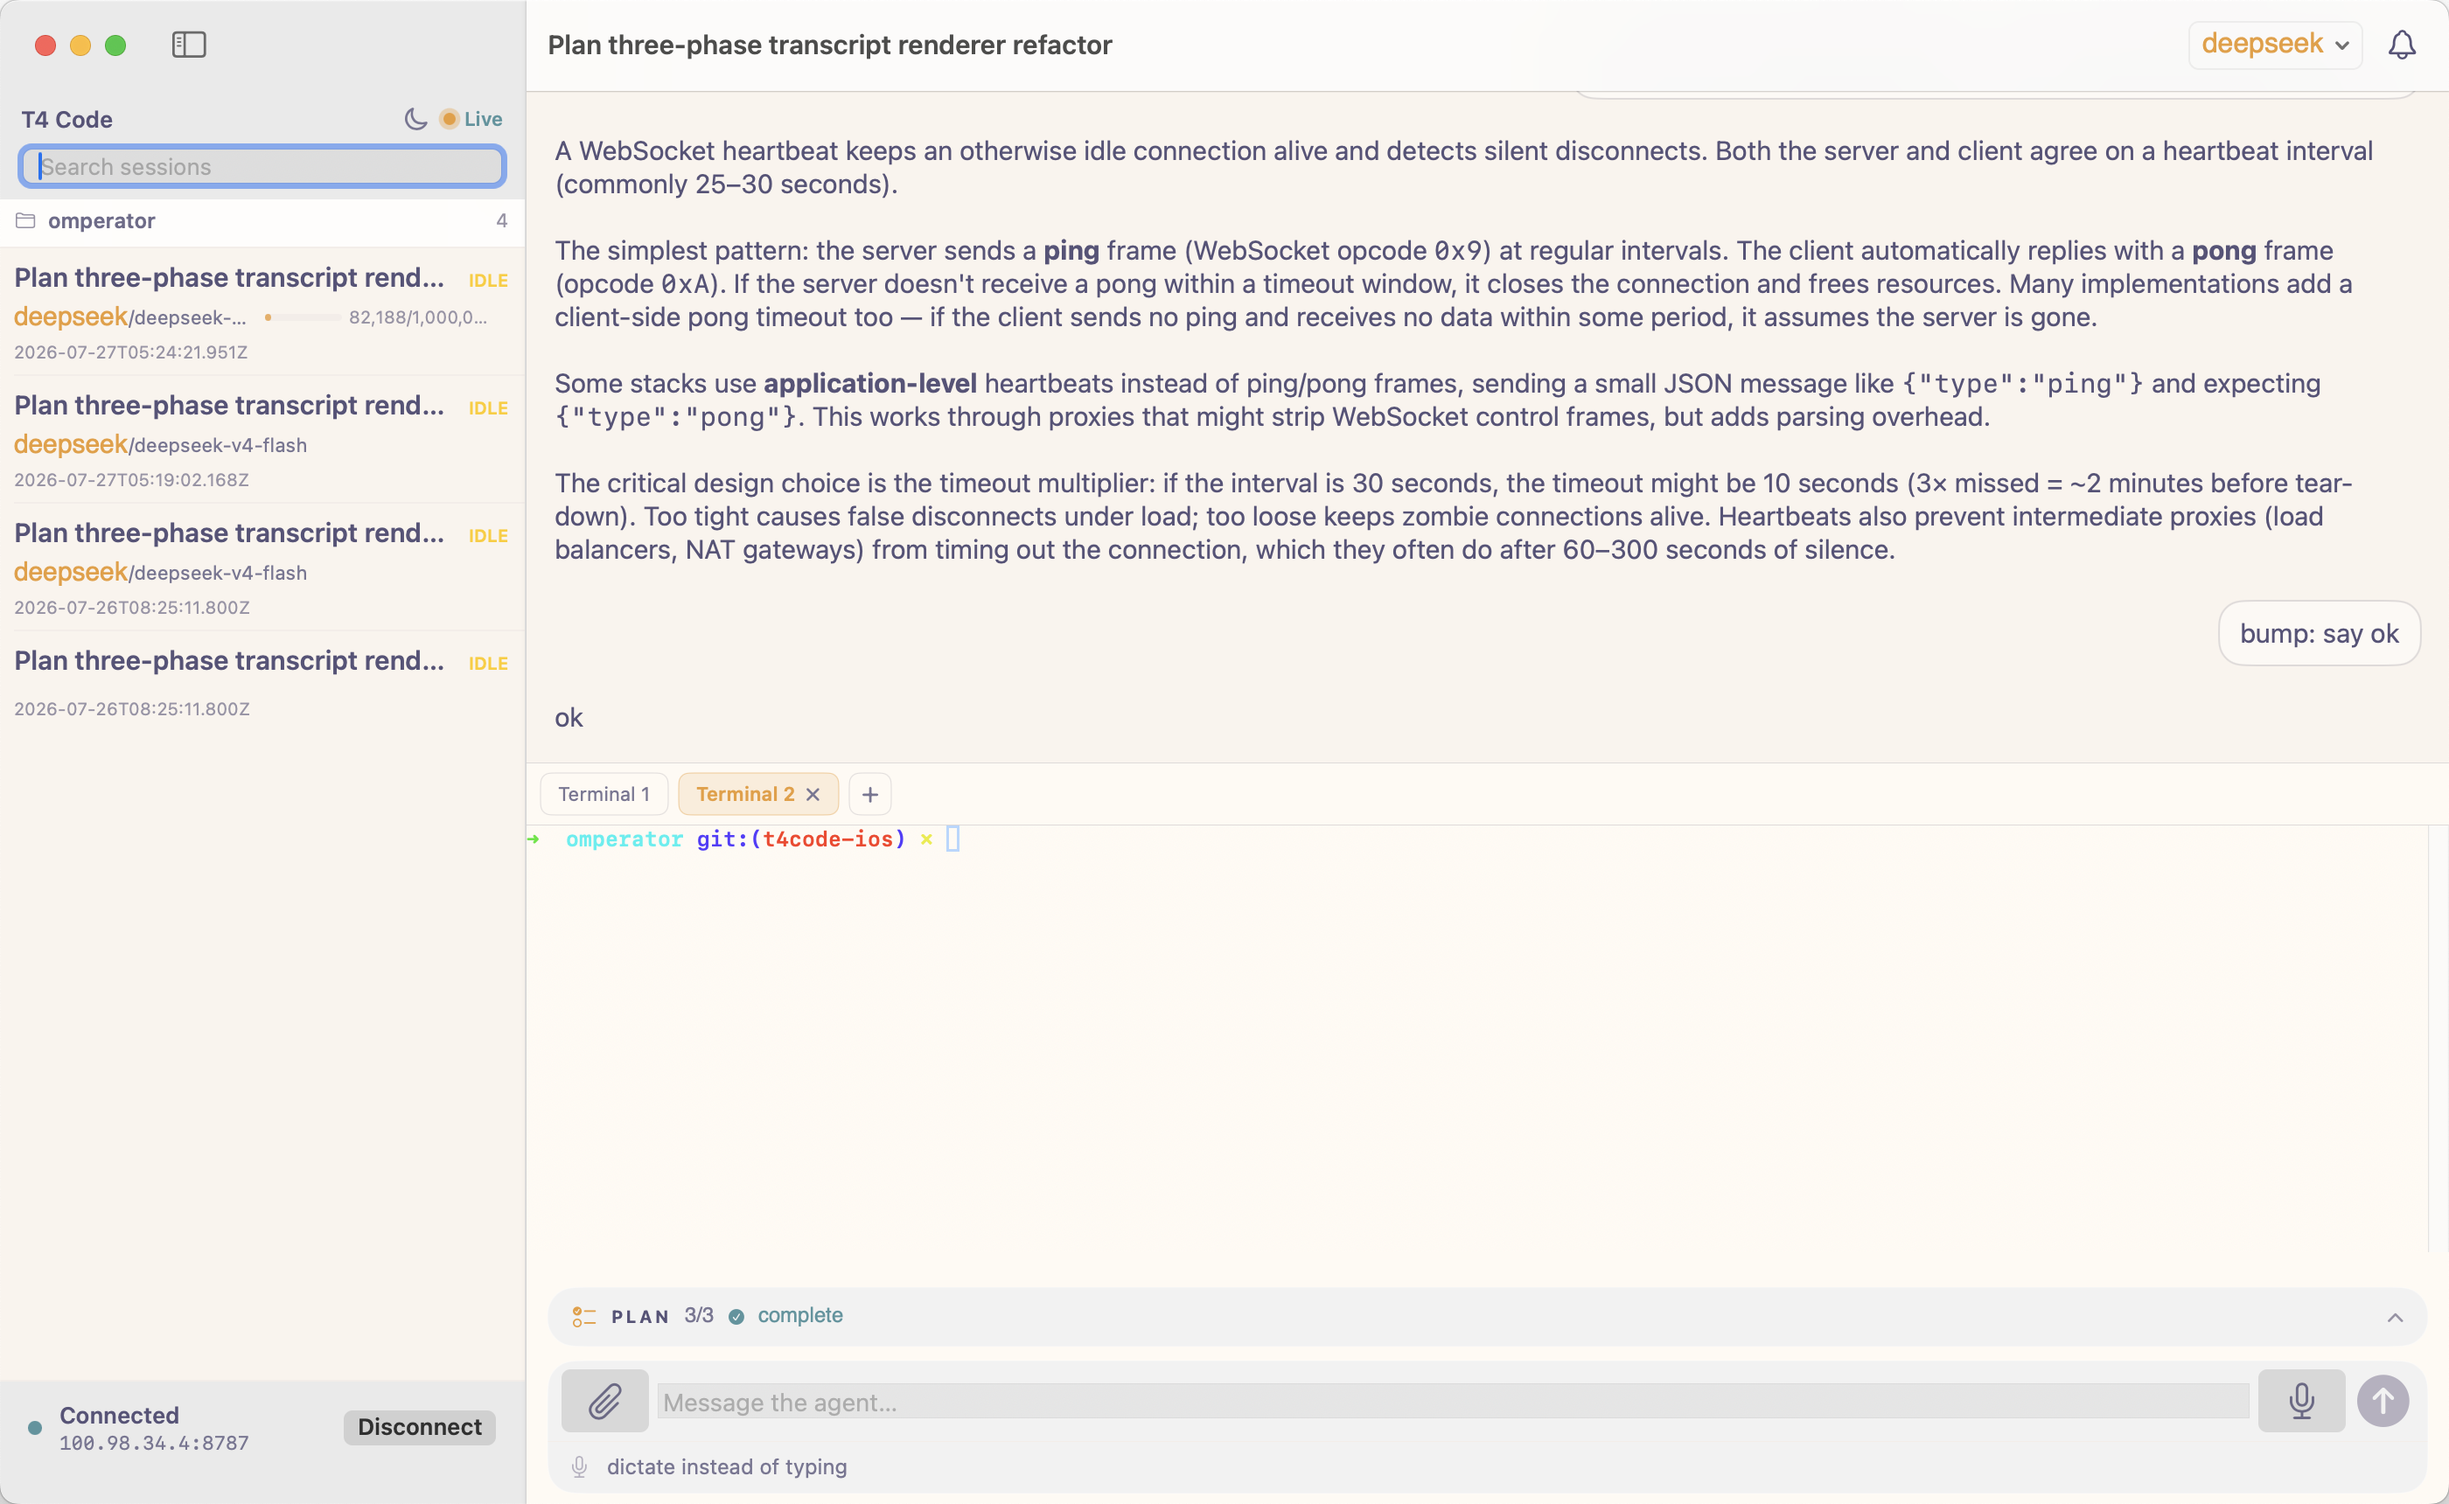
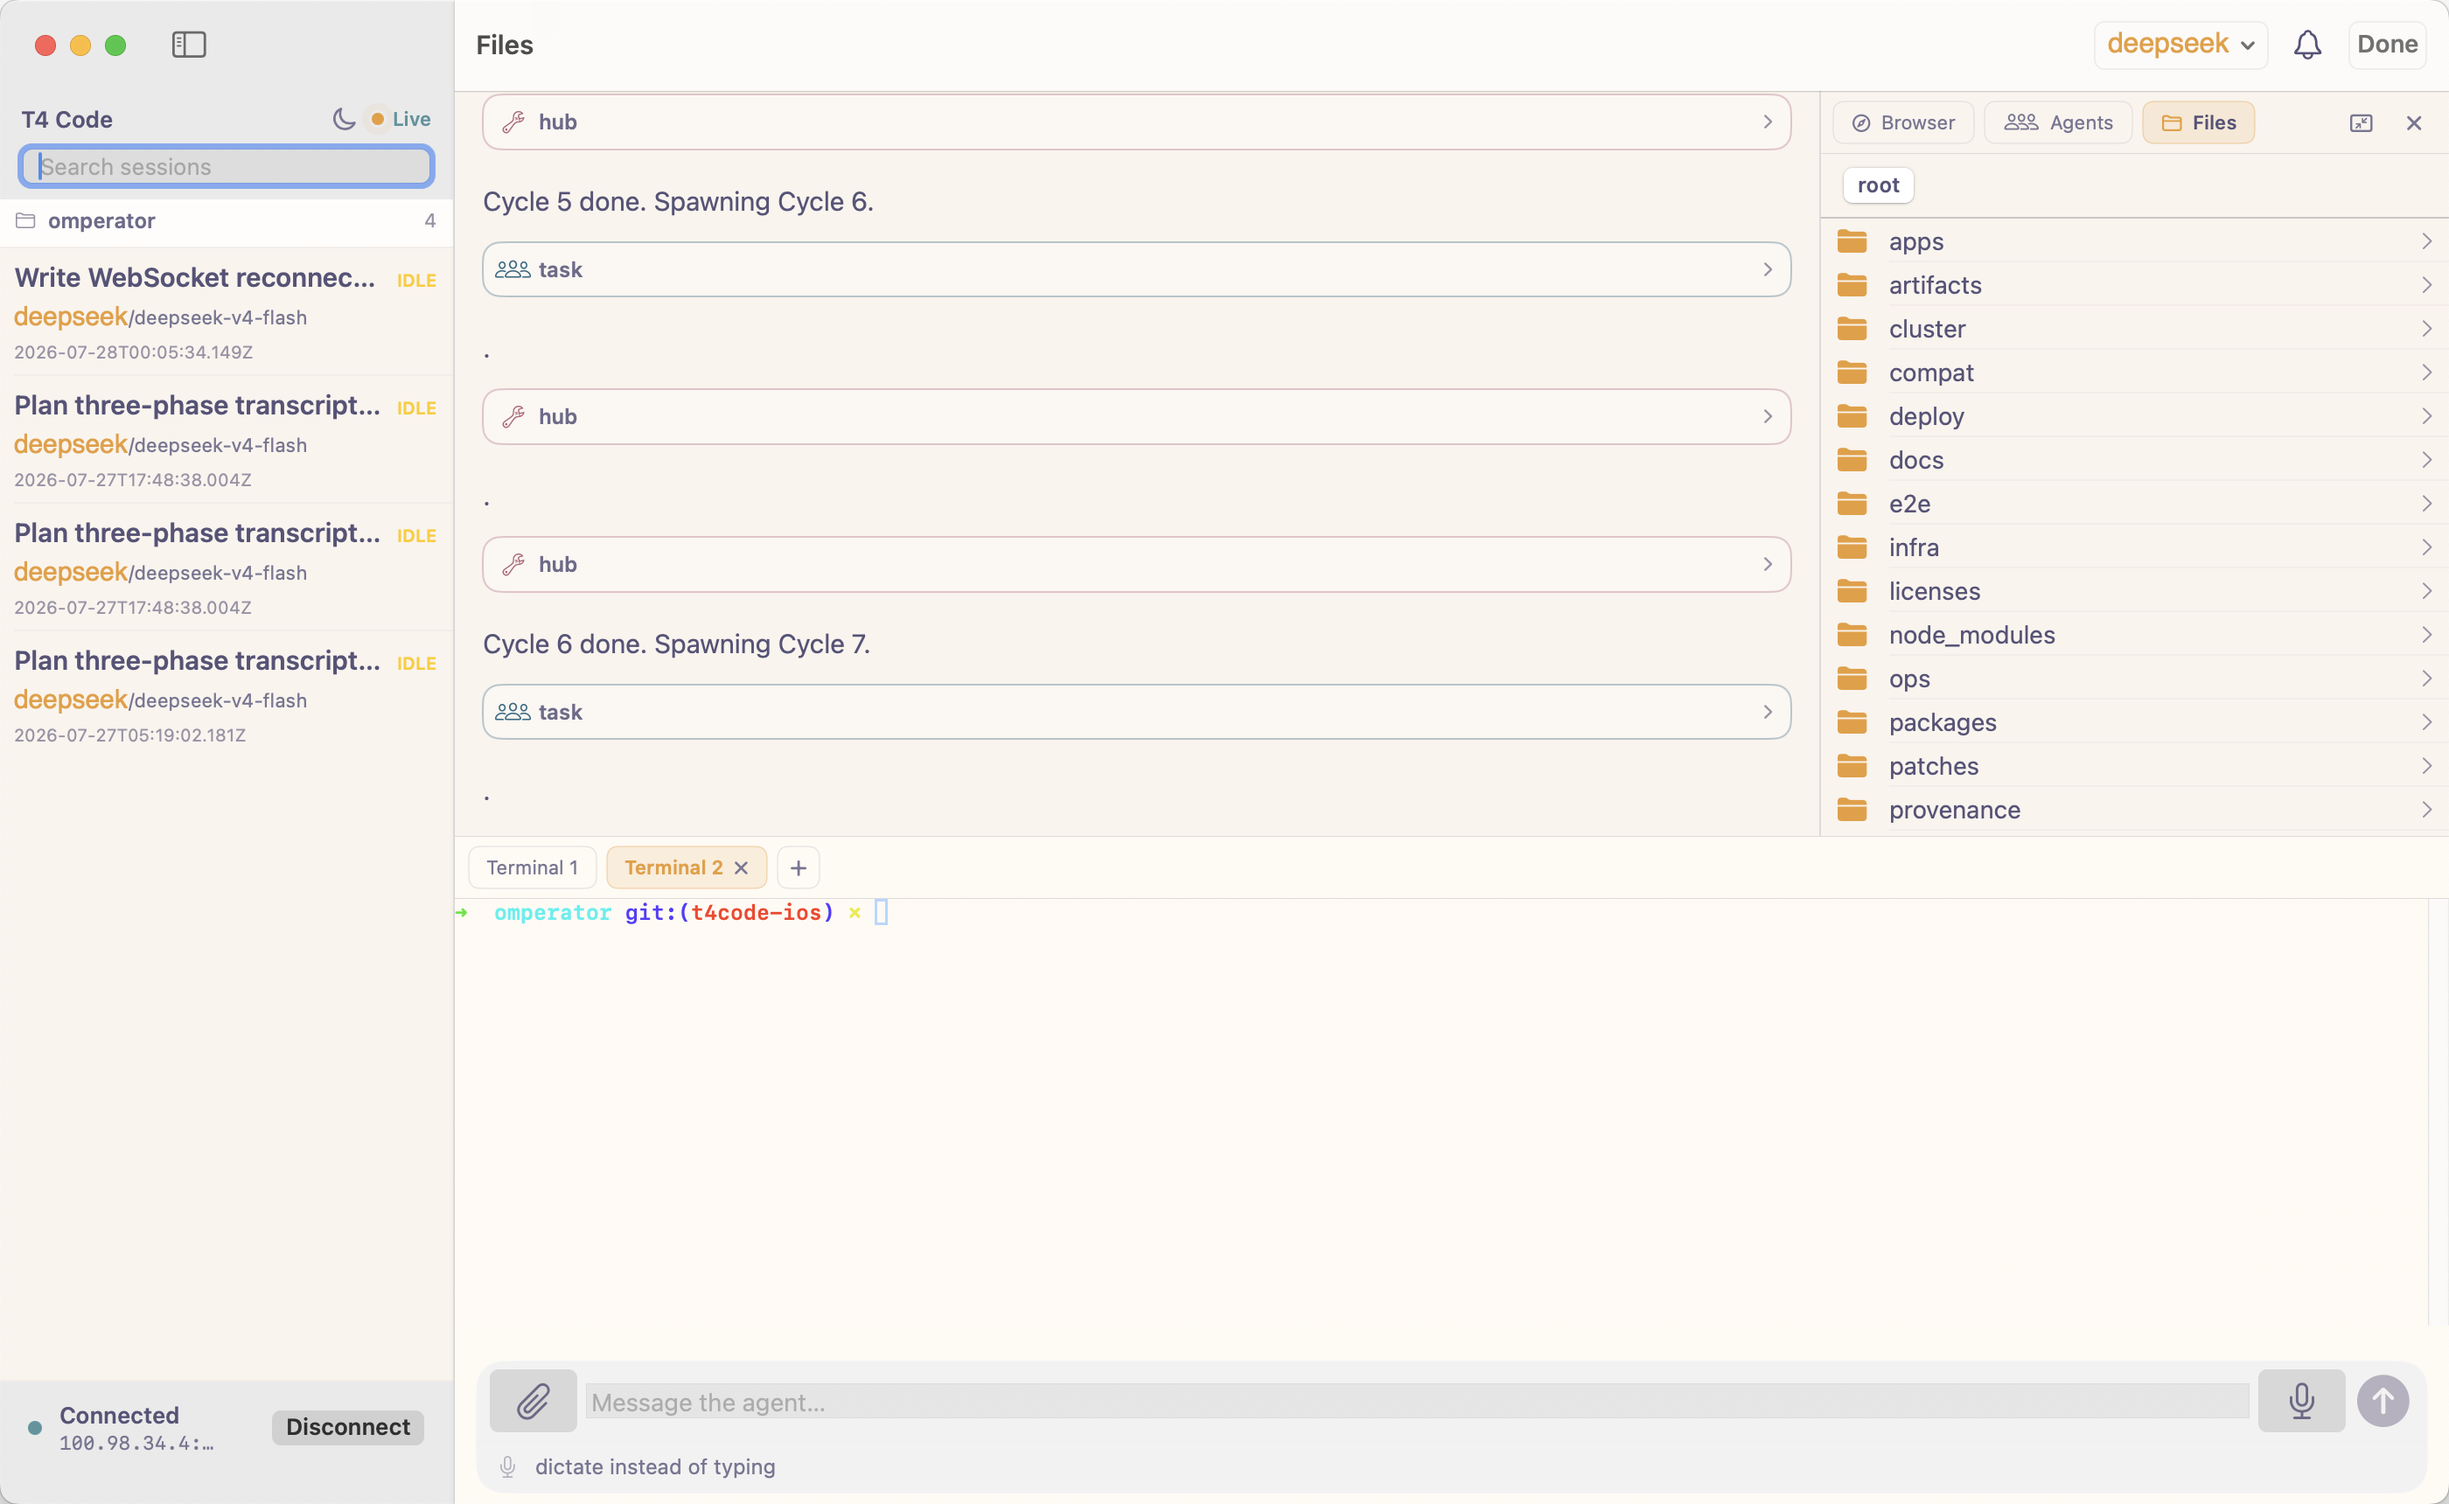
showcase: promote in-motion to the top; drop the stale tui-hero shot
The two live clips now lead the visual sections (before iOS), and the
pre-parity tui-hero.png card is gone. The hand-rendered mockup's key
line now matches the real keymap (panes, filter, cancel).

diff --git a/showcase/index.html b/showcase/index.html
@@ -288,7 +288,13 @@ all speaking the same <code>omp-app/1</code> wire to your <code>t4-host</code>, 
 	<div class="fact"><span class="k">t4 tui</span><div>The whole product in a terminal: rail, live transcript, composer, fork — one self-contained binary.</div></div>
 </div>
 
-<h2><span class="dot">●</span> iOS</h2>
+<h2><span class="dot"></span> in motion</h2>
+<div class="grid">
+	<div class="card"><video src="../screenshots/app-clip.webm" autoplay loop muted playsinline></video><div class="body"><span class="tag">live</span><h3>macOS, working</h3><p>Launch, connect, switch sessions — the real app, no cuts.</p></div></div>
+	<div class="card"><video src="../screenshots/t4-tour.webm" autoplay loop muted playsinline></video><div class="body"><span class="tag tag-tui">live</span><h3>t4, pane tour</h3><p>Chat → files → search → diff → terminal, in one take over tmux.</p></div></div>
+</div>
+
+<h2><span class="dot"></span> iOS</h2>
 <div class="carousel" data-carousel>
 	<button class="car-btn prev" aria-label="previous"></button>
 	<div class="car-track">
@@ -376,12 +382,8 @@ all speaking the same <code>omp-app/1</code> wire to your <code>t4-host</code>, 
 	</div>
 	<div class="term-rule"></div>
 	<div class="composer"><span class="prompt">›</span><span class="hint">compare the forks' approaches…</span><span class="enter-hint">enter ↵</span><span class="cur"></span></div>
-	<div class="keys">j/k move · enter open · tab composer · f fork · r refresh · q quit</div>
+	<div class="keys">j/k move · enter open · 1-5 panes · f fork · x cancel · / filter · ? help</div>
 </div>
-</div>
-
-<div class="grid" style="margin-top:16px;">
-	<div class="card" style="grid-column: 1 / -1;"><img src="../screenshots/tui-hero.png" alt="t4 TUI, real capture"><div class="body"><span class="tag tag-tui">real capture</span><h3><code>t4</code> — the terminal client</h3><p>The mockup above isn't marketing gloss — it's the actual UI, one-to-one. Session rail, live transcript, composer with history, fork, help. A 62 MB self-contained binary speaking <code>omp-app/1</code> over UDS or pinned wss. <code>packages/t4-cli</code>.</p></div></div>
 </div>
 
 
@@ -397,12 +399,6 @@ all speaking the same <code>omp-app/1</code> wire to your <code>t4-host</code>, 
 	</div>
 	<button class="car-btn next" aria-label="next"></button>
 	<div class="car-dots"></div>
-</div>
-
-<h2><span class="dot"></span> in motion</h2>
-<div class="grid">
-	<div class="card"><video src="../screenshots/app-clip.webm" autoplay loop muted playsinline></video><div class="body"><span class="tag">live</span><h3>macOS, working</h3><p>Launch, connect, switch sessions — the real app, no cuts.</p></div></div>
-	<div class="card"><video src="../screenshots/t4-tour.webm" autoplay loop muted playsinline></video><div class="body"><span class="tag tag-tui">live</span><h3>t4, pane tour</h3><p>Chat → files → search → diff → terminal, in one take over tmux.</p></div></div>
 </div>
 
 <footer>
